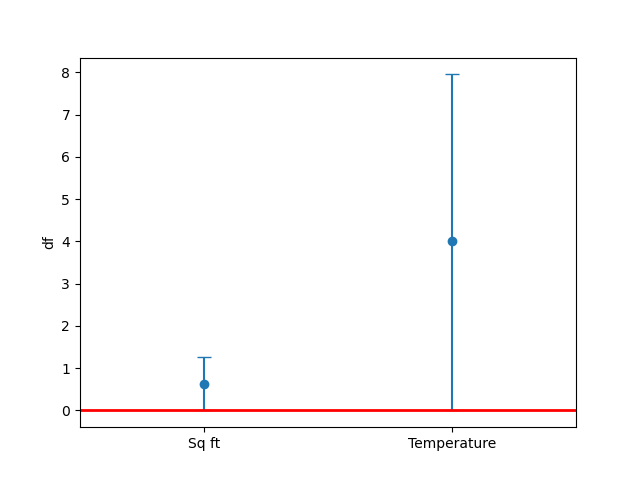
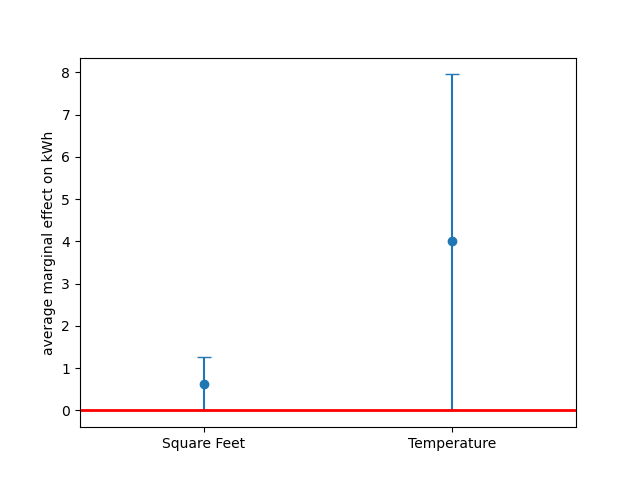
figure edits

Changed region(s): [[0.0625, 0.2812, 0.0938, 0.75], [0.25, 0.9062, 0.4062, 0.9375]]

diff --git a/homework3/code/h3_kwh.py b/homework3/code/h3_kwh.py
@@ -154,9 +154,9 @@ low = np.abs(np.array(lb_ame[1:3] - ame[1:3]))
 high = np.abs(np.array(ub_ame[1:3] - ame[1:3]))
 
 plt.errorbar(x=np.arange(2), y=ame[1:3], yerr=[low, high], fmt='o', capsize=5)
-plt.ylabel('df')
-plt.xticks(np.arange(2), ['Sq ft', 'Temperature'])
+plt.ylabel('average marginal effect on kWh')
+plt.xticks(np.arange(2), ['Square Feet', 'Temperature'])
 plt.xlim((-0.5,1.5)) # Scales the figure more nicely
 plt.axhline(linewidth=2, color='r')
-plt.savefig(os.path.join(outputpath, 'plot.png'))
+plt.savefig(os.path.join(outputpath, 'ame_plot.png'))
 plt.show()
